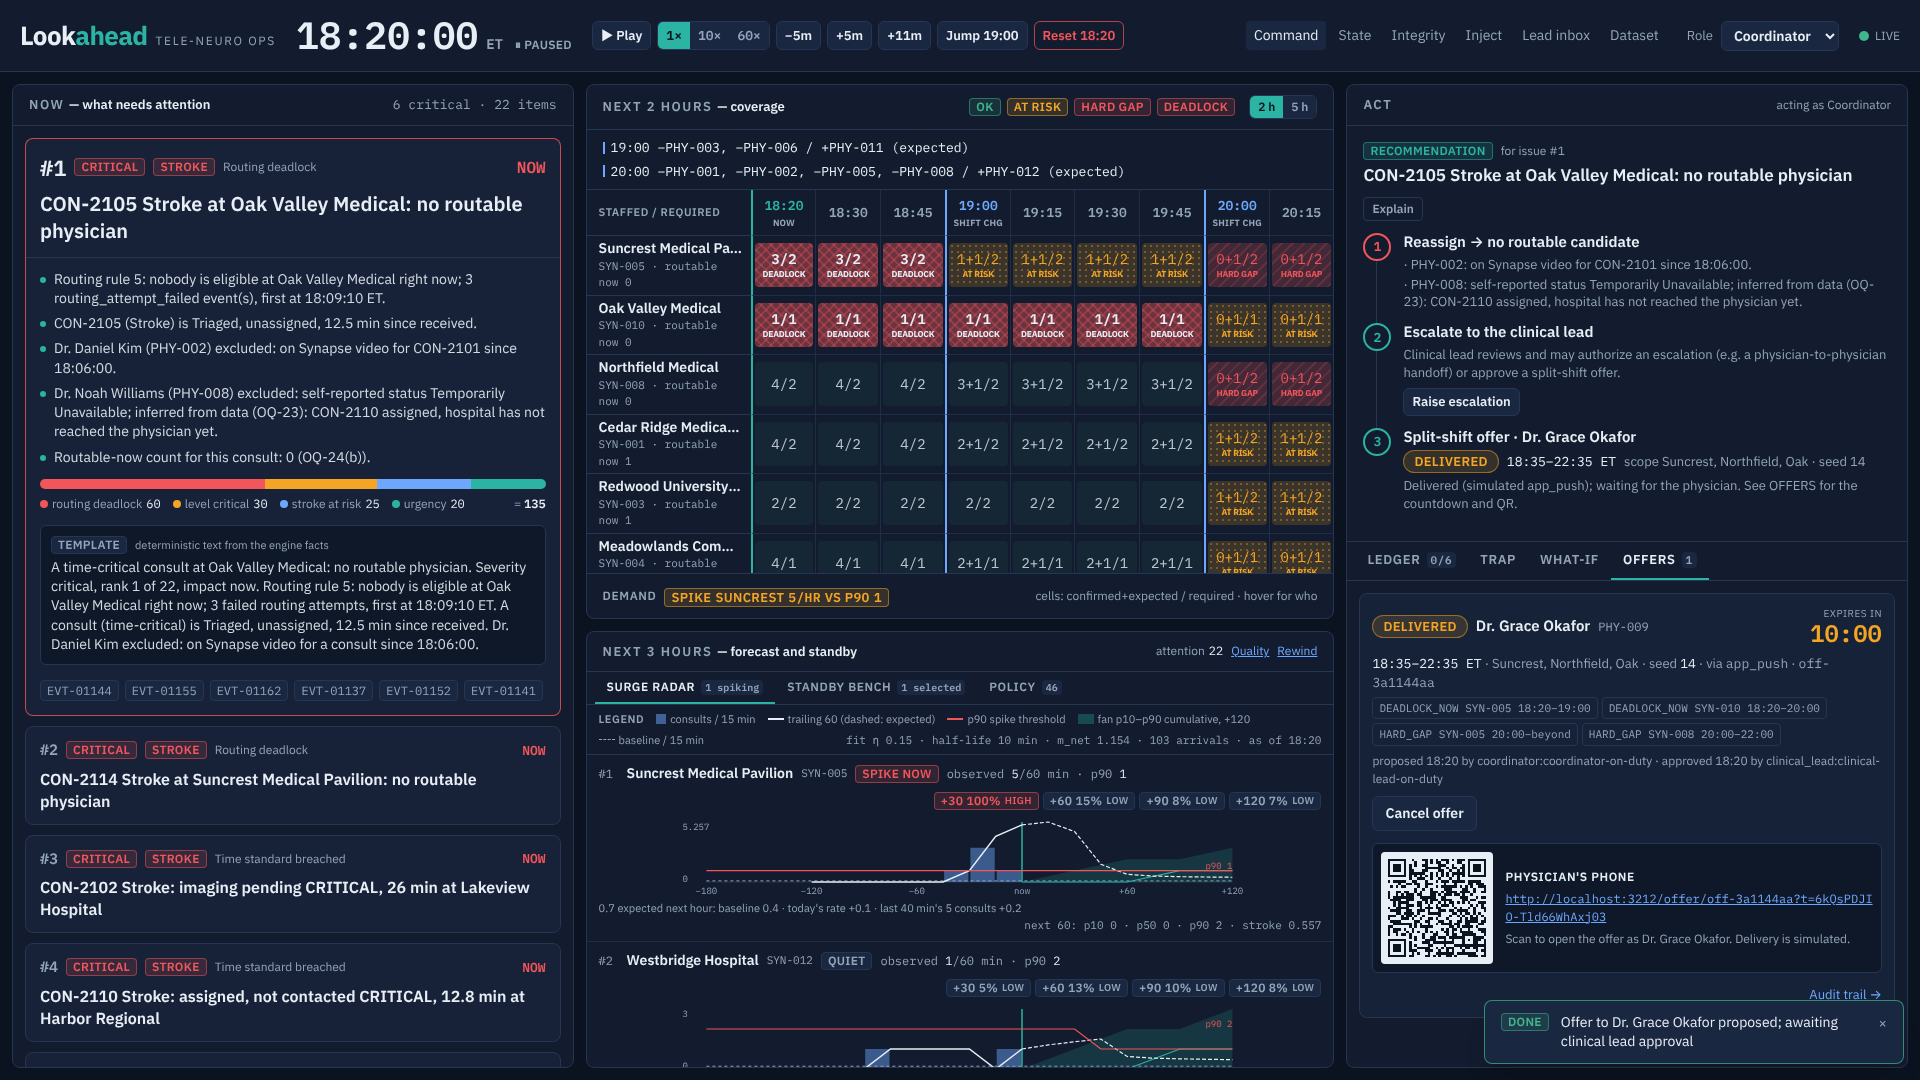
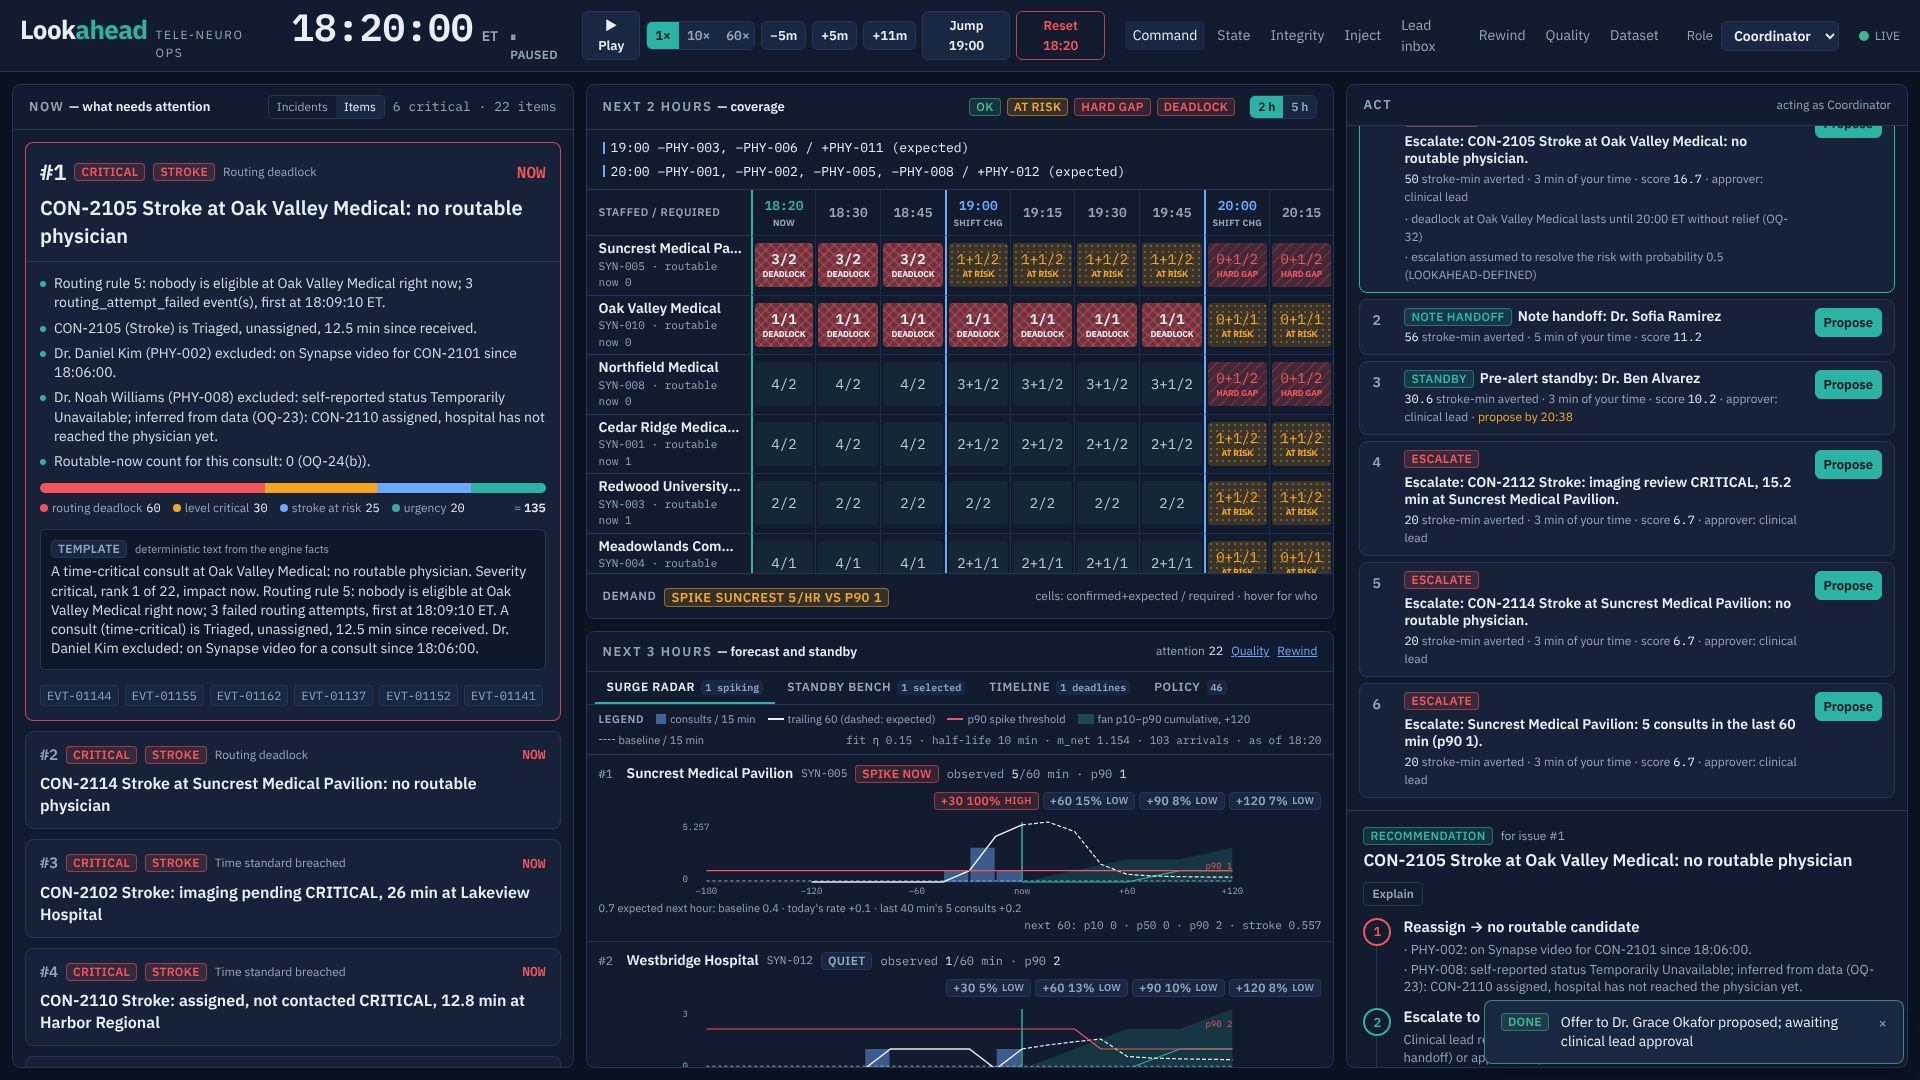
NOW panel defaults to ranked items (incidents behind the toggle); regenerate docs/screens (23 shots)
Claude-Session: https://claude.ai/code/session_01VF7kNRZoBSFtcXLwRTzRC2

diff --git a/apps/web/src/components/AttentionList.tsx b/apps/web/src/components/AttentionList.tsx
@@ -103,7 +103,7 @@ function Card({ item, top, open, onToggle }: { readonly item: AttentionDTO; read
 
 export function AttentionList({ items, incidents, reduction }: { readonly items: readonly AttentionDTO[]; readonly incidents?: readonly Incident[]; readonly reduction?: { readonly items: number; readonly incidents: number; readonly percent: number } }) {
   const [openIds, setOpenIds] = useState<Record<string, boolean>>({});
-  const [mode, setMode] = useState<'incidents' | 'items'>(incidents === undefined ? 'items' : 'incidents');
+  const [mode, setMode] = useState<'incidents' | 'items'>('items');
   const topId = items[0]?.id;
   const isOpen = (id: string) => openIds[id] ?? id === topId;
   const showIncidents = mode === 'incidents' && incidents !== undefined;

diff --git a/apps/web/e2e/screens.spec.ts b/apps/web/e2e/screens.spec.ts
@@ -137,6 +137,6 @@ test('screenshots of every page', async ({ page, browser, baseURL, request }) =>
   await page.goto('/admin/dataset');
   await page.getByTestId('dataset-files').setInputFiles(upload);
   await expect(page.getByTestId('snapshot-check')).toBeVisible();
-  await shot(page, '15-admin-dataset-report');
+  await shot(page, '24-admin-dataset-report');
   await phoneCtx.close();
 });
